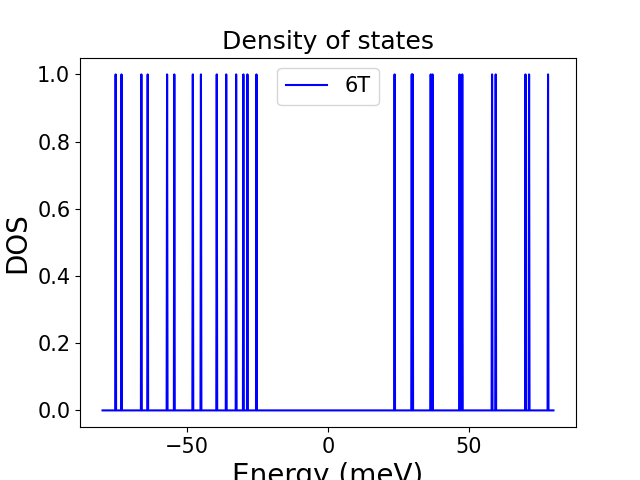
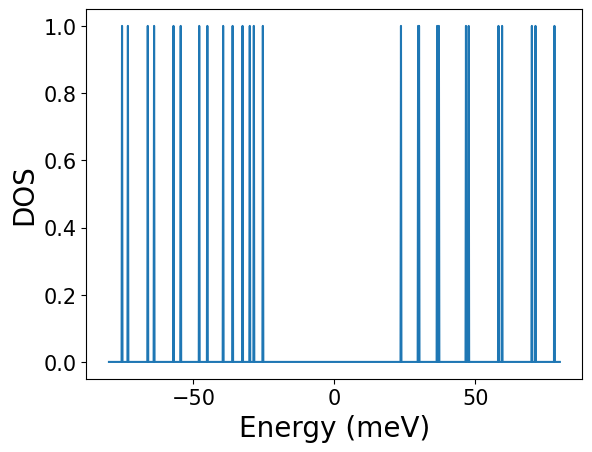
fixed plots

Changed region(s): [[0.0, 0.031, 0.9426, 1.0]]

diff --git a/code/BG.py b/code/BG.py
@@ -19,24 +19,24 @@ fig, ax = plt.subplots()
 
 ### paramters (SI units)
 
-dim = 500 # dimension of angular momentum space
+dim=500 # dimension of angular momentum space
 mid=int((4*dim-1)/2)-1
 
-hbar = 1.054571*10**(-34) # planck's constant (J*s)
-e = 1.60217663*10**(-19) # electron charge (C)
-J2meV = 10**3/e # joules to meV conversion factor
-a0 = 2.46*10**(-10) # graphene AA distance
+hbar=1.054571*10**(-34) # planck's constant (J*s)
+e=1.60217663*10**(-19) # electron charge (C)
+J2meV=10**3/e # joules to meV conversion factor
+a0=2.46*10**(-10) # graphene AA distance
+# m=9.1093837*10**(-31) # electron mass
 
 i=complex(0,1)
 
 ### Paramters
 
 # Hopping terms (J)
-g0 = 2.61*10**3/J2meV
-g1 = 0.361*10**3/J2meV
-g3 = 0#-0.283*10**3/J2meV
-g4 = -0.138*10**3/J2meV
-
+g0=2.61*10**3/J2meV
+g1=0.361*10**3/J2meV
+g3=0#-0.283*10**3/J2meV
+g4=-0.138*10**3/J2meV
 
 # symmetry-breaking
 # EZ=3.58/J2meV # Zeeman splitting, breaks spin symmetry
@@ -237,14 +237,12 @@ def B0_DOS(pt_den):
     
     global energy,layerpol,nsites,u
     nsites=len(sites)
-    u=0#0.06/(J2meV*10**(-3)) # meV
+    u=0.06/(J2meV*10**(-3)) # meV
 
     with mp.Pool(processes=16) as pool:
         result=np.array(pool.map(B0_DOS_process,sites))
         energy=np.array(result[:,0],dtype=float)
         layerpol=np.array(result[:,1],dtype=float)
-    
-    print(layerpol)
     
     global minE,maxE,r
     r=200
@@ -258,31 +256,31 @@ def B0_DOS(pt_den):
     
     # chemical potential as a function of gate voltage
     energy_range=np.linspace(minE,maxE,r)
-    # VG=np.zeros((r))
-    # dmu=(maxE-minE)/r
-    # VG[0]=DOS[0]*dmu
-    # for m in range(1,r):
-        # VG[m]=VG[m-1]+DOS[m]
-    # VG=dmu*VG
-    # VG=VG-VG[99] # VG(mu=0)=0
+    VG=np.zeros((r))
+    dmu=(maxE-minE)/r
+    VG[0]=DOS[0]*dmu
+    for m in range(1,r):
+        VG[m]=VG[m-1]+DOS[m]
+    VG=dmu*VG
+    VG=VG-VG[99] # VG(mu=0)=0
     
-    #unique=np.unique(VG,return_index=True)
-    #VG_unique=unique[0]
-    #VG_indices=unique[1]
-    #mu=energy_range[VG_indices]
-    #plt.plot(VG_unique,mu)
+    unique=np.unique(VG,return_index=True)
+    VG_unique=unique[0]
+    VG_indices=unique[1]
+    mu=energy_range[VG_indices]
+    plt.plot(VG_unique,mu)
     
-    plt.plot(energy_range,DOS)
-    plt.xlabel('Energy (meV)')
-    plt.ylabel('DOS')
+    #plt.plot(energy_range,DOS)
+    #plt.xlabel('Energy (meV)')
+    #plt.ylabel('DOS')
     #plt.title('Density of states')
     
-    #plt.plot(energy_range,VG)
-    #plt.ylabel(r"$\mu$ (meV)")
-    #plt.xlabel(r"V$_G$ (mV)")
+    # plt.plot(energy_range,VG)
+    plt.ylabel("Chemical potential (meV)")
+    plt.xlabel("Gate voltage (mV)")
     
     #name=str(pt_den)
-    name="npts=500_r=200"
+    name="A"
     plt.savefig("./plots/"+name+".png",bbox_inches="tight")
 
 def B0_DOS_process(k):
@@ -303,7 +301,7 @@ def B0_plot_process(d):
     for e in range(8):
         for m in range(nsites):
             if ((energy[m,e]<emax) & (energy[m,e]>=emin)):
-                DOS+=layerpol[m,e]
+                DOS+=1#layerpol[m,e]
     return DOS
     
 def BN0_DOS(B):
@@ -312,31 +310,31 @@ def BN0_DOS(B):
     u=0.06/(J2meV*10**(-3)) # meV
     evalsP,evecsP=bg_BN0(1,B,u)
     evalsM,evecsM=bg_BN0(-1,B,u)
-    energy=np.sort(np.append(evalsP,evalsM))
+    energy=np.append(evalsP,evalsM) # np.sort messes DOS up!
     layerpol=np.zeros((2*(4*dim-1)))
-    
+
     for e in range(4*dim-1):
        layerpol[e]=layerpolarization(evecsP[e],1,1) # valley +1
        layerpol[e+(4*dim-1)]=layerpolarization(evecsM[e],-1,1) # valley -1
 
     global minE,maxE,r
-    r=1000
+    r=1000 # 200
     E=80 # (meV)
     maxE=E
     minE=-E
-    name=str(dim)
 
-    with mp.Pool(processes=2) as pool:
+    with mp.Pool(processes=16) as pool:
         DOS=np.array(pool.map(BN0_plot_process,range(r)))
     
     return DOS,energy
     
+    # name=str(dim)
     # energy_range=np.linspace(minE,maxE,r)
     # plt.plot(energy_range,DOS)
     # plt.xlabel('Energy (meV)')
     # plt.ylabel('DOS')
-    # plt.title('Density of states')
-    # plt.savefig("./plots/"+name+"_BN0.png",bbox_inches="tight")
+    # # plt.title('Density of states')
+    # plt.savefig("./plots/"+name+".png",bbox_inches="tight")
     
 def BN0_plot_process(d):
     global minE,maxE,r
@@ -398,7 +396,8 @@ if (__name__ == '__main__'):
     
     t = time.time()
     B0_DOS(args.pt_den)
-    # DOS6,E6=BN0_DOS(B=6) #DOS6=BN0_DOS(B=6)
+    # BN0_DOS(B=6)
+    #DOS6,E6=BN0_DOS(B=6) #DOS6=BN0_DOS(B=6)
     #DOS7,E7=BN0_DOS(B=7) #DOS7=BN0_DOS(B=7)
     # B0_bands(2,args.pt_den)
     print(time.time()-t)
@@ -413,11 +412,11 @@ if (__name__ == '__main__'):
     
     # energy_range=np.linspace(-80,80,1000)
     # plt.plot(energy_range,DOS6,color="blue",label="6T")
-    # # plt.plot(energy_range,DOS7,color="red",label="7T")
+    # plt.plot(energy_range,DOS7,color="red",label="7T")
     # name=str(dim)
     
-    # plt.legend()
+    # plt.legend(loc='center right')
     # plt.xlabel('Energy (meV)')
     # plt.ylabel('DOS')
     # # plt.title('Density of states')
-    # plt.savefig("./plots/"+name+"_BN0.png",bbox_inches="tight")
+    # plt.savefig("./plots/"+name+".png",bbox_inches="tight")
